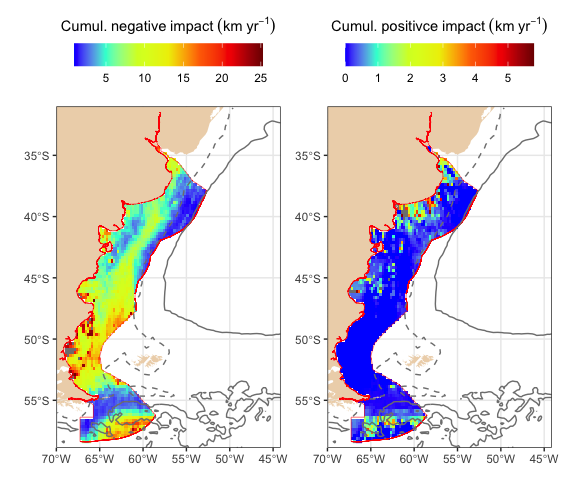
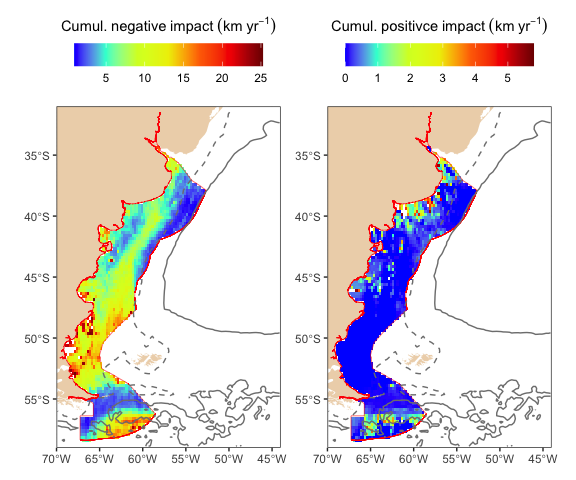
update

diff --git a/tutorials/tute1.md b/tutorials/tute1.md
@@ -1,7 +1,7 @@
 Display seafloor climate change data
 ================
 Chih-Lin Wei
-2024-08-03
+2024-08-04
 
 ``` r
 library(ArgentinaSSP126)
@@ -154,13 +154,13 @@ ggplot(bathy) +
 plot_fun <- function(r, vt=names(r), colours=NULL, q_limits=c(0.001, 0.999)){
   
   # Convert raster to data frame and then to list
-  cmip6 <- as.data.frame(r, xy = TRUE) %>% na.omit %>%
+  cmip6 <- as.data.frame(r, xy = TRUE) %>%
   gather(-x, -y, key = "var", value = "value", factor_key = TRUE)
   cmip6$var <- factor(cmip6$var, labels = vt)
   cmip6_list <- cmip6 %>% group_split(var)
   
   # Depth
-  bathy <- etopo2022%>% as.data.frame(xy = TRUE) %>% na.omit
+  bathy <- etopo2022%>% as.data.frame(xy = TRUE)
   
   # ggolot list
   gg_list = lapply(cmip6_list, function(dat) {
@@ -184,7 +184,7 @@ plot_fun <- function(r, vt=names(r), colours=NULL, q_limits=c(0.001, 0.999)){
       geom_sf(data=as(eez, "sf"), fill="transparent", colour="red")+
       geom_contour(data=bathy, aes(x=x, y=y, z=layer), breaks=-200, linetype=2, colour="gray50")+
       geom_contour(data=bathy, aes(x=x, y=y, z=layer), breaks=-4000, linetype=1, colour="gray50")+
-      scale_fill_gradientn(colours=cols, limits=lims)+
+      scale_fill_gradientn(colours=cols, limits=lims, na.value="white")+
       scale_x_continuous(expand = expansion(mult = 0))+
       scale_y_continuous(expand = expansion(mult = 0))+
       labs(x=NULL, y=NULL, fill=NULL, title=parse(text=dat$var[1] %>% as.character))+
@@ -293,7 +293,7 @@ climate changes for export POC flux, dissolved oxygen, pH, and
 temperature simultaneously exceed twice the historical variability.
 
 ``` r
-all <- overlay(subset(cmip6_extoe_constant, 1:4), fun=max) %>% mask(eez)
+all <- overlay(subset(cmip6_extoe_constant, 1:4), fun=max)
 names(all) <- "cmip6_extoe_constant"
 plot_fun(r=all, vt="When~climate~change>2*sigma", colours=brewer.pal(10, 'RdYlBu'), q_limits = c(0, 1))
 ```

diff --git a/tutorials/tute2.md b/tutorials/tute2.md
@@ -1,7 +1,7 @@
 Extract seafloor climate change data by polygon, polyline, or points
 ================
 Chih-Lin Wei
-2024-08-03
+2024-08-04
 
 ``` r
 library(ArgentinaSSP126)
@@ -65,13 +65,13 @@ same four parameters, including:
 plot_fun <- function(r, vt=names(r), colours=NULL, q_limits=c(0.001, 0.999)){
   
   # Convert raster to data frame and then to list
-  cmip6 <- as.data.frame(r, xy = TRUE) %>% na.omit %>%
+  cmip6 <- as.data.frame(r, xy = TRUE) %>%
   gather(-x, -y, key = "var", value = "value", factor_key = TRUE)
   cmip6$var <- factor(cmip6$var, labels = vt)
   cmip6_list <- cmip6 %>% group_split(var)
   
   # Depth
-  bathy <- etopo2022%>% as.data.frame(xy = TRUE) %>% na.omit
+  bathy <- etopo2022%>% as.data.frame(xy = TRUE)
   
   # ggolot list
   gg_list = lapply(cmip6_list, function(dat) {
@@ -95,7 +95,7 @@ plot_fun <- function(r, vt=names(r), colours=NULL, q_limits=c(0.001, 0.999)){
       geom_sf(data=as(eez, "sf"), fill="transparent", colour="red")+
       geom_contour(data=bathy, aes(x=x, y=y, z=layer), breaks=-200, linetype=2, colour="gray50")+
       geom_contour(data=bathy, aes(x=x, y=y, z=layer), breaks=-4000, linetype=1, colour="gray50")+
-      scale_fill_gradientn(colours=cols, limits=lims)+
+      scale_fill_gradientn(colours=cols, limits=lims, na.value="white")+
       scale_x_continuous(expand = expansion(mult = 0))+
       scale_y_continuous(expand = expansion(mult = 0))+
       labs(x=NULL, y=NULL, fill=NULL, title=parse(text=dat$var[1] %>% as.character))+

diff --git a/tutorials/tute3.md b/tutorials/tute3.md
@@ -1,7 +1,7 @@
 Applying seafloor climate change data for habitat suitability modeling
 ================
 Chih-Lin Wei
-2024-07-30
+2024-08-04
 
 ``` r
 library(ArgentinaSSP126)
@@ -80,7 +80,7 @@ ggplot(bathy) +
   geom_contour(data=bathy, aes(x=x, y=y, z=layer), breaks=-4000, linetype=1, colour="gray50")+
   geom_point(data=occ, aes(x=decimalLongitude, y=decimalLatitude), size=0.5)+
   facet_wrap(~Taxa)+
-  scale_fill_gradientn(colours=terrain.colors(7))+
+  scale_fill_gradientn(colours=terrain.colors(7), na.value="white")+
   scale_x_continuous(expand = expansion(mult = 0))+
   scale_y_continuous(expand = expansion(mult = 0))+
   labs(x=NULL, y=NULL, fill="Depth\n(m)")+
@@ -197,7 +197,7 @@ ggplot(dat) +
   geom_contour(data=bathy, aes(x=x, y=y, z=layer), breaks=-4000, linetype=1, colour="gray50")+
   #geom_point(data=occ, aes(x=decimalLongitude, y=decimalLatitude), size=0.2)+
   facet_grid(var~Taxa)+
-  scale_fill_gradientn(colours=brewer.pal(10, 'RdYlBu') %>% rev)+
+  scale_fill_gradientn(colours=brewer.pal(10, 'RdYlBu') %>% rev, na.value="white")+
   scale_x_continuous(expand = expansion(mult = 0))+
   scale_y_continuous(expand = expansion(mult = 0))+
   labs(x=NULL, y=NULL, fill="Habitat\nSuitability")+
